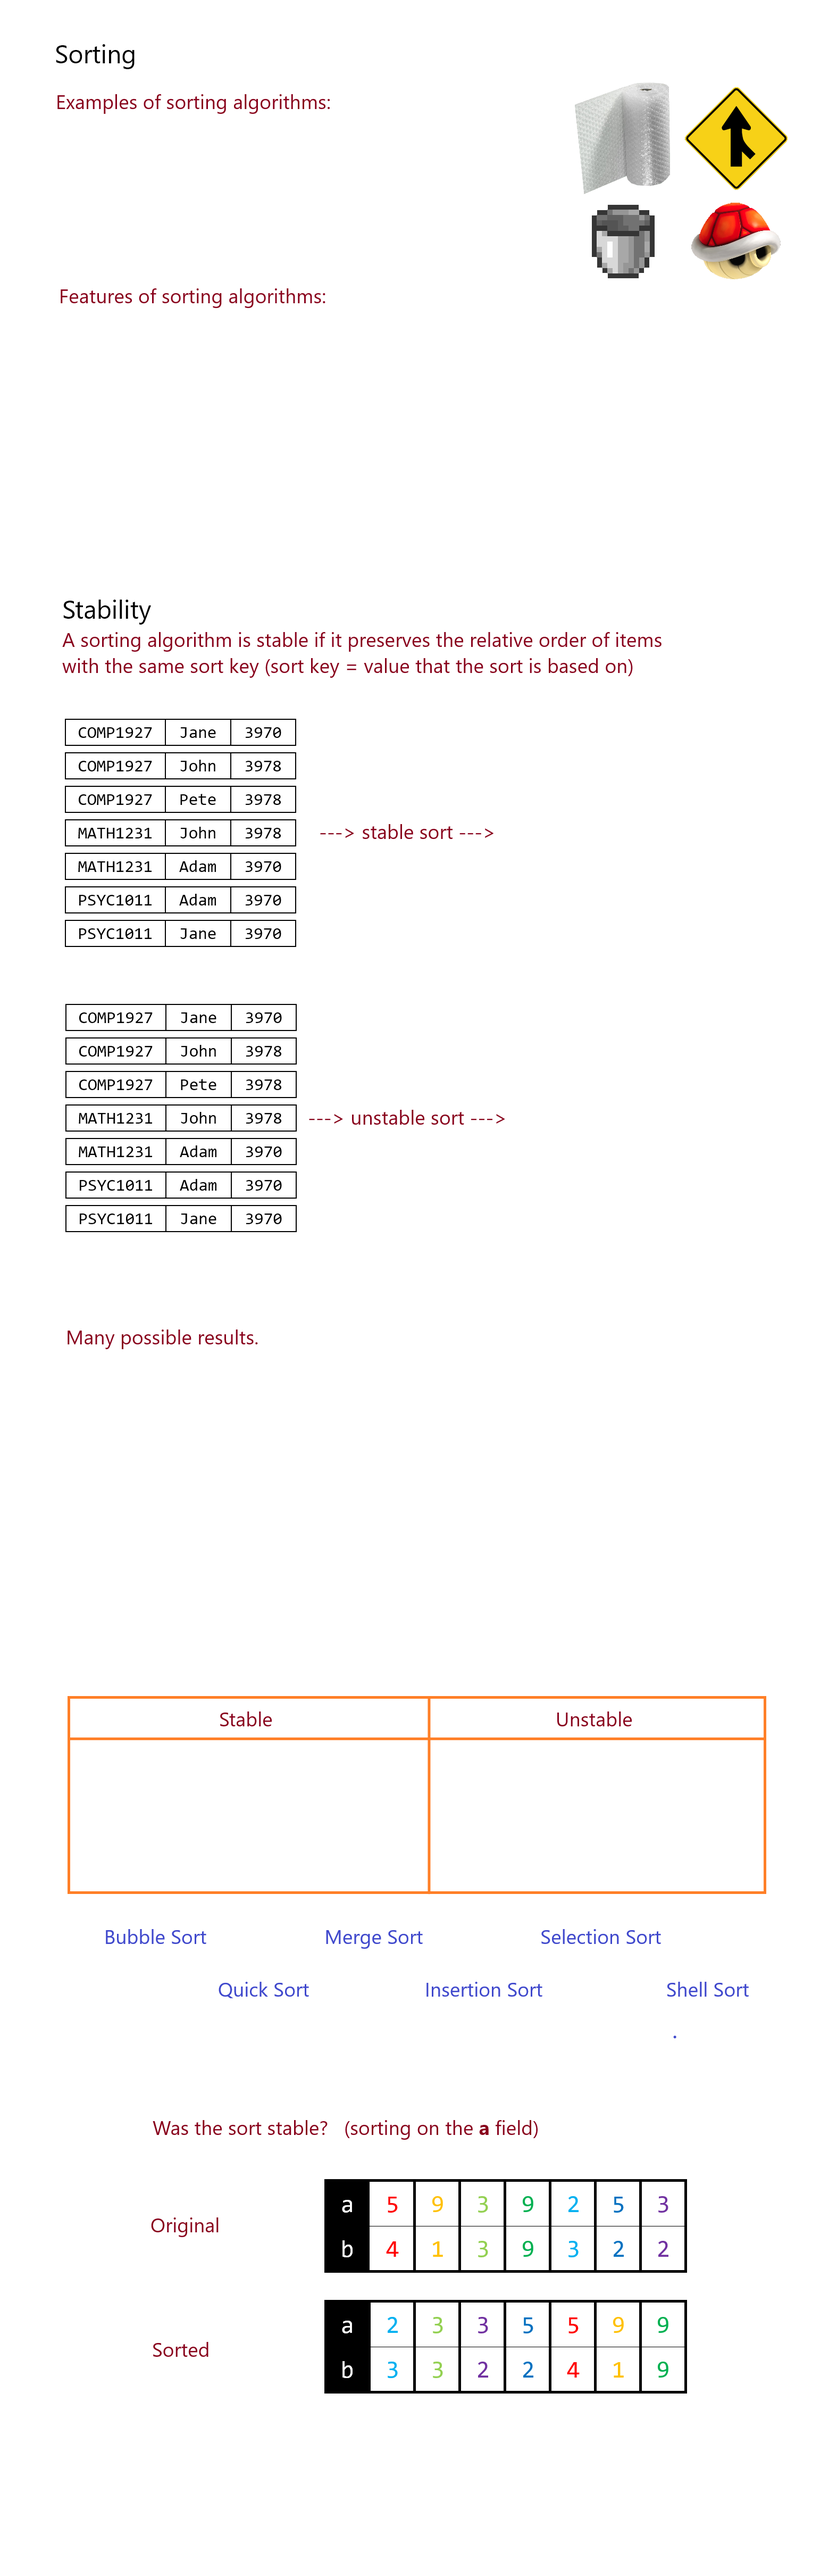
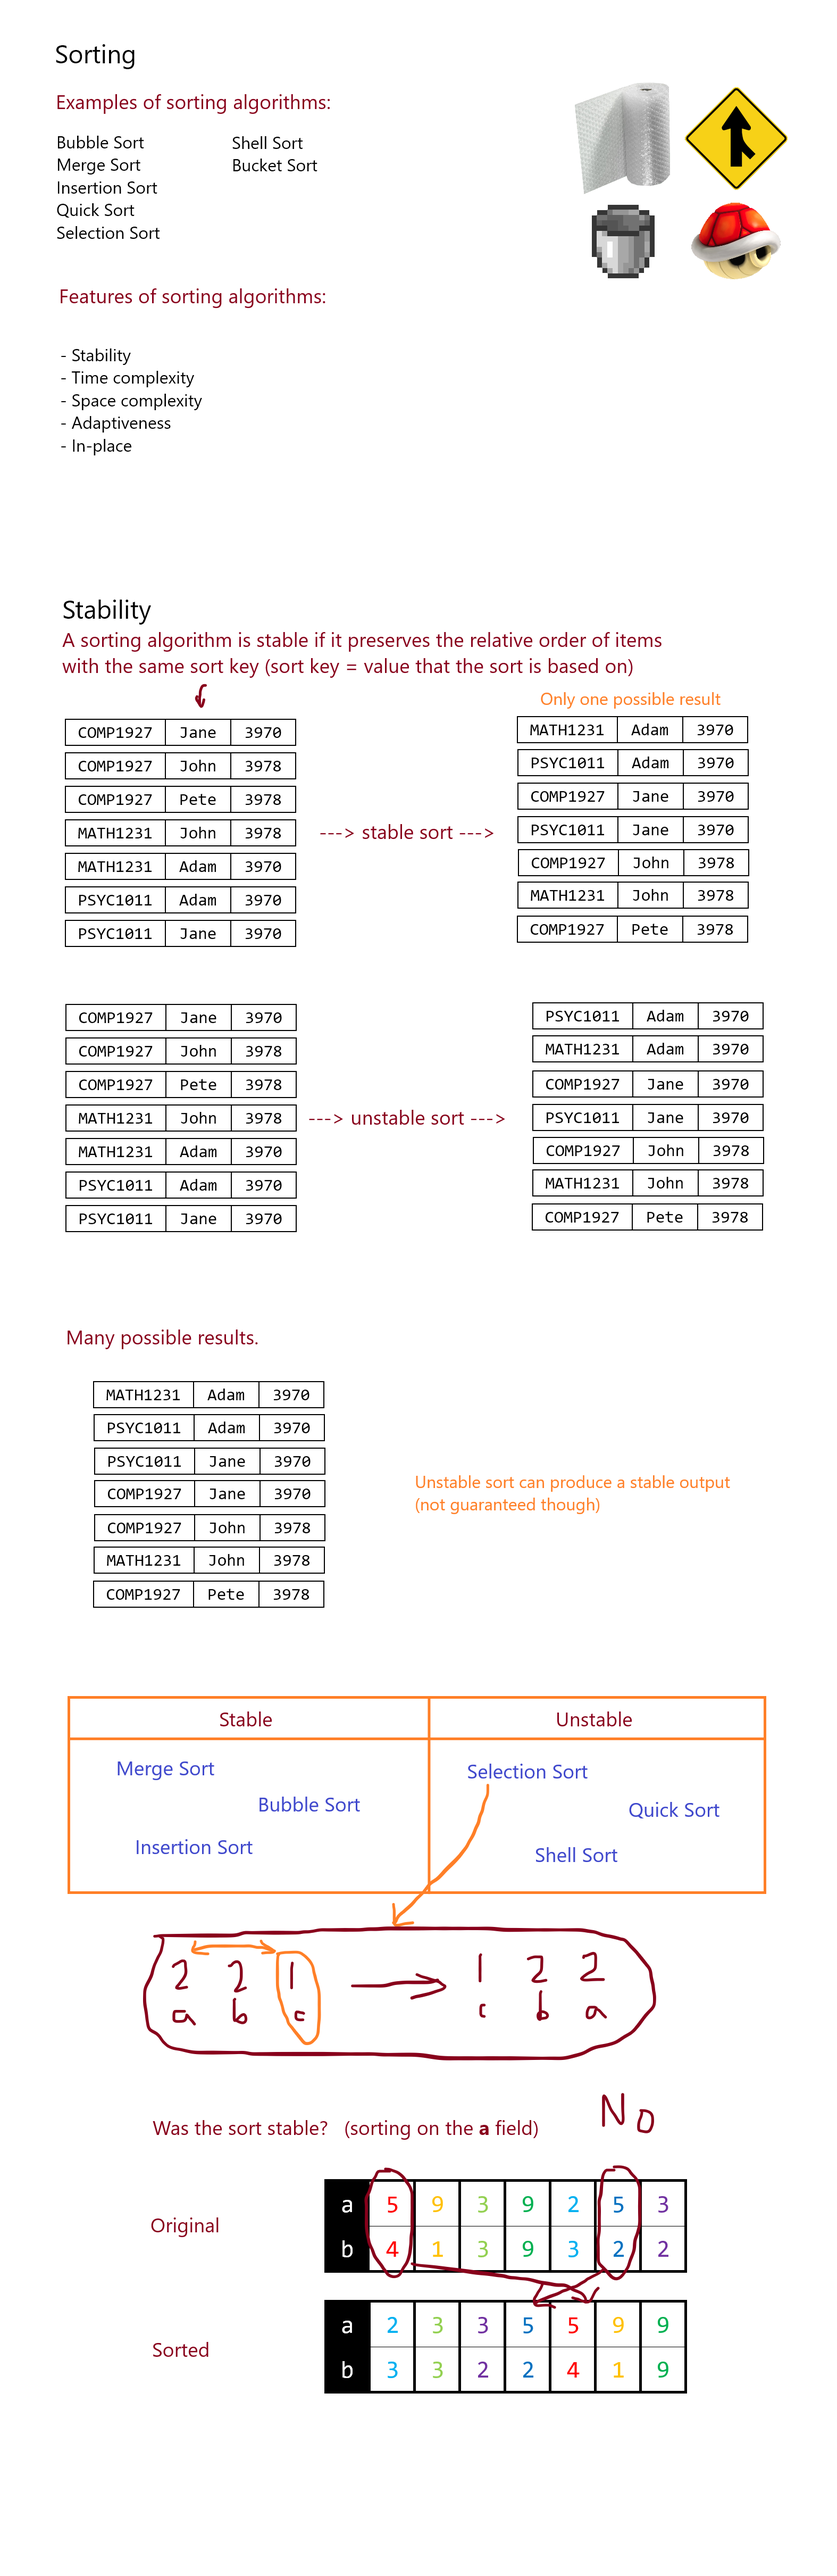
week 9 wednesday

diff --git a/wk09/wed10/q4/isStableSort.c b/wk09/wed10/q4/isStableSort.c
@@ -5,10 +5,15 @@
 #include "isStableSort.h"
 #include "Item.h"
 
-
+static void bubbleSort(Item A[], int size);
+static void swap(Item A[], int i, int j);
 
 bool isStableSort(Item original[], Item sorted[], int size) {
-	return true;
+	Item copy[size];
+	arrayCopy(copy, original, size);
+	bubbleSort(copy, size);
+	bool result = arraysEqual(copy, sorted, size);
+	return result;
 }
 
 
@@ -41,8 +46,6 @@ bool isStableSort(Item original[], Item sorted[], int size) {
 
 
 
-static void bubbleSort(Item A[], int size);
-static void swap(Item A[], int i, int j);
 
 // Known to be stable
 static void bubbleSort(Item A[], int size) {

diff --git a/wk09/wed10/q5/list.c b/wk09/wed10/q5/list.c
@@ -21,7 +21,29 @@ static List listUnlinkNode(List ls, List node);
 
 List selectSort(List ls) {
 	List copy = copyList(ls);
-	return copy;
+
+	// Remaining list: 5 -> 6 -> 2 -> 1 -> X
+
+	// Result list: 6 -> X
+	// Remaining list: 5 -> 2 -> 1 -> X
+
+	// Result list: 5 -> 6 -> X
+	// Remaining list: 2 -> 1 -> X
+
+	// ...until nothing left in the remaining list
+
+	List result = NULL;
+	while (copy != NULL) {
+		List max = listMax(copy);
+		copy = listUnlinkNode(copy, max);
+
+		// result: 5 -> 6 -> X
+		// max: 2
+		max->next = result;
+		result = max;
+	}
+
+	return result;
 }
 
 
